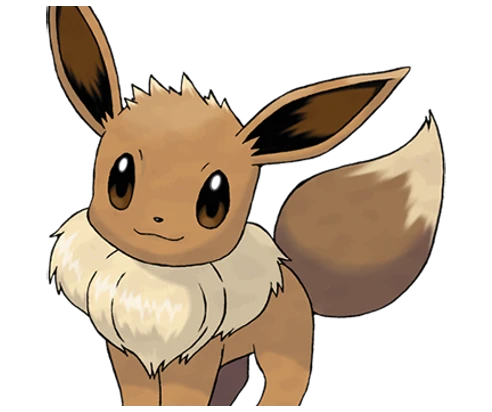
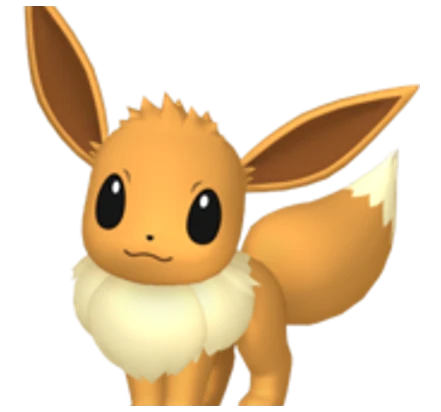
Menú moderno: sin pixel art (botones y paneles redondeados, Nunito y Lilita One, iconos SVG suaves), Normal y Clasificatoria abajo a la derecha con la ficha del entrenador encima, y el Eevee del gacha (render HOME, entero) a ×1,5 abajo a la izquierda; Amigos y su panel redondeados

diff --git a/public/index.html b/public/index.html
@@ -948,22 +948,19 @@ body.fullField .boardInfo span:not(:empty){background:rgba(8,12,28,.6)}
 .candyRow b{color:#9cd3ff;font-size:17px;font-weight:700;text-shadow:1px 1px 0 var(--pxK)}
 .mnRow{grid-template-columns:repeat(5,1fr)}
 .pxb-sq{font-size:13px}
-/* Eevee del gacha (menú): la ilustración oficial de Eevee (PokeAPI, nítida a este tamaño; el sprite de GO solo mide 92 px) dentro de un halo dorado de energía (img/menu/halo-oro*.webp, hechos con halo-oro.js: anillo
-   inclinado con resplandor, vetas, rayos y destellos; la parte baja del anillo va por delante del sprite). Al pasar el ratón su silueta se resalta en dorado y
-   abre el gacha (sustituye al botón «Gacha»). A la izquierda de la pantalla, algo por debajo del centro */
-.mnEevee{position:fixed;left:clamp(8px,calc(50% - 740px),320px);top:58%;transform:translateY(-50%);z-index:16;width:340px;height:400px;overflow:visible;border:0;background:none;padding:0;cursor:pointer;display:block;clip-path:none;box-shadow:none}
+/* Eevee del gacha (menú): la ilustración de Eevee dentro de un halo dorado de energía (img/menu/halo-oro*.webp, hechos con halo-oro.js: anillo
+   inclinado con resplandor, vetas, rayos y destellos; la parte baja del anillo va por delante del sprite). Abajo a la izquierda; al pasar el ratón su
+   silueta se resalta en dorado y abre el gacha (sustituye al botón «Gacha»). Pequeño por defecto; a ×1,5 en escritorio (tema moderno, más abajo) */
+.mnEevee{position:fixed;left:6px;bottom:6px;z-index:16;width:176px;height:200px;overflow:visible;border:0;background:none;padding:0;cursor:pointer;display:block;clip-path:none;box-shadow:none}
 .mnEevee .halo,.mnEevee .haloF,.mnEevee .ev{position:absolute;left:50%;top:50%;transform:translate(-50%,-50%);pointer-events:none;user-select:none}
-.mnEevee .halo,.mnEevee .haloF{width:330px;height:330px;animation:mnHalo 3.6s ease-in-out infinite}
-.mnEevee .haloF{opacity:1}
-.mnEevee .ev{width:230px;height:230px;top:48%;filter:drop-shadow(0 10px 10px rgba(0,0,0,.45));transition:transform .15s,filter .15s}
-.mnEevee span{position:absolute;left:50%;bottom:2px;transform:translateX(-50%);font-family:var(--pxFont);font-size:16px;letter-spacing:.06em;color:#f4d27a;text-shadow:1px 1px 0 var(--pxK),0 0 10px rgba(255,215,94,.55)}
+.mnEevee .halo,.mnEevee .haloF{width:176px;height:176px;animation:mnHalo 3.6s ease-in-out infinite}
+.mnEevee .ev{width:116px;height:116px;top:48%;filter:drop-shadow(0 10px 10px rgba(0,0,0,.45));transition:transform .15s,filter .15s}
+.mnEevee span{position:absolute;left:50%;bottom:2px;transform:translateX(-50%);font-family:var(--display);font-size:14px;letter-spacing:.08em;color:#f4d27a;text-shadow:0 2px 0 rgba(0,0,0,.6),0 0 10px rgba(255,215,94,.55)}
 @keyframes mnHalo{0%,100%{transform:translate(-50%,-50%) scale(1)}50%{transform:translate(-50%,-50%) scale(1.04)}}
 .mnEevee:hover .ev,.mnEevee:focus-visible .ev{transform:translate(-50%,-52%);filter:drop-shadow(2px 0 0 #ffd75e) drop-shadow(-2px 0 0 #ffd75e) drop-shadow(0 2px 0 #ffd75e) drop-shadow(0 -2px 0 #ffd75e) drop-shadow(0 0 12px rgba(255,215,94,.9)) brightness(1.06)}
 .mnEevee:hover .halo,.mnEevee:focus-visible .halo{filter:brightness(1.15) saturate(1.1)}
 .mnEevee:hover span,.mnEevee:focus-visible span{color:#fff2b0}
 .mnEevee:focus-visible{outline:none}
-/* el menú (776 px centrado) deja a la izquierda (50% − 388 px); si no caben los 340 px del Eevee (ancho < 1480) o la pantalla es baja, va pequeño abajo a la izquierda */
-@media (max-width:1479px),(max-height:979px){ .mnEevee{left:6px;top:auto;bottom:6px;transform:none;width:176px;height:200px} .mnEevee .halo,.mnEevee .haloF{width:176px;height:176px} .mnEevee .ev{width:116px;height:116px} .mnEevee span{font-size:13px} }
 @media (prefers-reduced-motion:reduce){ .mnEevee .halo,.mnEevee .haloF{animation:none} }
 /* ---------- cola ---------- */
 #queueBar{position:fixed;left:0;right:0;margin:0 auto;width:fit-content;max-width:calc(100vw - 32px);bottom:18px;z-index:30;display:flex;align-items:center;gap:14px;padding:14px 16px 14px 18px;min-width:min(520px,calc(100vw - 32px));color:var(--pxInk);animation:pxIn .3s steps(4) both}
@@ -1432,6 +1429,56 @@ body.fullField .top{background:none;border-bottom:0;box-shadow:none;backdrop-fil
 .cfgSur small{color:#a9b8c8;font-size:12.5px;max-width:260px}
 @media (max-width:620px){ .cfgRow{grid-template-columns:1fr;gap:6px} .cfgSep{margin-left:-16px;margin-right:-16px} .mbox.cfg{padding:22px 16px 18px} }
 @keyframes cbBan{0%{opacity:0;transform:translate(-50%,-50%) scale(1.25)}12%{opacity:1;transform:translate(-50%,-50%) scale(1)}72%{opacity:1;transform:translate(-50%,-50%) scale(1)}100%{opacity:0;transform:translate(-50%,-50%) scale(.97)}}
+/* ===================== Tema moderno del menú y de las ventanas (sustituye al pixel art) =====================
+   Esquinas redondeadas, Nunito para los textos y Lilita One para los títulos de los botones, sombras suaves y transiciones lisas.
+   Se mantienen la paleta --px* y las clases .pxb/.pxpanel/.btn: estas reglas van después y las redefinen. */
+:root{--pxFont:"Nunito",system-ui,sans-serif}
+.pxb{clip-path:none;border-radius:16px;box-shadow:inset 0 0 0 2px var(--acc),0 8px 18px rgba(0,0,0,.35);text-shadow:none;transition:transform .12s ease,filter .12s ease,box-shadow .12s ease}
+.pxb::before{display:none}
+.pxb b{font-family:var(--display);font-weight:400;letter-spacing:.03em;text-shadow:0 2px 0 rgba(0,0,0,.35)}
+.pxb small{font-weight:700;text-shadow:none}
+.pxb:hover,.pxb:focus-visible{box-shadow:inset 0 0 0 2px var(--pxGold),0 10px 22px rgba(0,0,0,.4),0 0 16px rgba(255,210,63,.25)}
+.pxb:active{transform:translateY(1px)}
+.pxb-main{border-radius:20px;--fill:linear-gradient(180deg,#f0553f,#c93422)}
+.pxb-main:hover,.pxb-main:focus-visible{--fill:linear-gradient(180deg,#ff6a50,#d93b28)}
+.pxb-alt{border-radius:18px;--fill:linear-gradient(180deg,#2b3a6e,#1c2750)}
+.pxb-sq{border-radius:14px;font-weight:800;font-size:14px;text-shadow:none}
+.pxCaret{clip-path:none;width:12px;height:12px;background:none;border-right:3px solid var(--pxGold);border-bottom:3px solid var(--pxGold);border-radius:2px;transform:rotate(-45deg) translate(-3px,-3px)}
+.pxb:hover .pxCaret,.pxb:focus-visible .pxCaret{transform:rotate(-45deg)}
+.pxpanel{clip-path:none;border-radius:18px;box-shadow:inset 0 0 0 2px var(--pxLine),0 16px 40px rgba(0,0,0,.45)}
+.tcard .mnTag{letter-spacing:.18em;font-weight:800;font-size:11px}
+.tcard .mnTag::before,.tcard .mnTag::after{height:1px;background:var(--pxLine)}
+.stand.artStand img{clip-path:none;border-radius:12px;box-shadow:0 0 0 2px var(--pxK),0 0 0 4px var(--pxGold2)}
+.stand.artStand::after{display:none}
+#menu .mnNav>*,#menu #menuWho,#menu .mnLogo{animation-timing-function:ease-out}
+.frBtn{border-radius:999px;padding:9px 16px 9px 12px;font-weight:800}
+.frBtn .frOn{clip-path:none;border-radius:999px;box-shadow:inset 0 0 0 2px #2b7c36}
+.frPanel{border-radius:18px;box-shadow:inset 0 0 0 2px color-mix(in srgb,var(--frAc) 55%,var(--pxLine)),0 16px 40px rgba(0,0,0,.5)}
+.frHead b{text-shadow:none;letter-spacing:.08em;font-weight:900}
+.frRow{border-radius:10px}
+/* Ventanas y botones de partida y acceso, con el mismo lenguaje */
+.btn{clip-path:none;border-radius:12px;font-family:var(--pxFont);font-weight:800;text-shadow:none;box-shadow:inset 0 0 0 2px var(--pxLine),0 4px 10px rgba(0,0,0,.3);transition:transform .1s ease,filter .1s ease,box-shadow .1s ease}
+.btn:hover{box-shadow:inset 0 0 0 2px var(--pxGold),0 6px 14px rgba(0,0,0,.35)}
+.btn:active{transform:translateY(1px);box-shadow:inset 0 0 0 2px var(--pxGold)}
+.btn.primary{background:linear-gradient(180deg,#f0553f,#c93422);box-shadow:inset 0 0 0 2px var(--pxGold2),0 4px 10px rgba(0,0,0,.3)}
+.btn.primary:hover{background:linear-gradient(180deg,#ff6a50,#d93b28);box-shadow:inset 0 0 0 2px var(--pxGold),0 6px 14px rgba(0,0,0,.35)}
+.btn.gold{box-shadow:inset 0 0 0 2px #fff0b0,0 4px 10px rgba(0,0,0,.3)}
+.mbox{clip-path:none;border-radius:18px}
+.mclose{clip-path:none;border-radius:50%;box-shadow:inset 0 0 0 2px var(--pxLine)}
+.mclose:hover{box-shadow:inset 0 0 0 2px var(--pxGold)}
+.field input,.field select,#auth .field input{border-radius:10px;box-shadow:inset 0 0 0 2px var(--pxLine)}
+.field input:focus,.field select:focus,#auth .field input:focus{box-shadow:inset 0 0 0 2px var(--pxGold)}
+.field label,#auth .field label{font-weight:800}
+/* Disposición del menú en escritorio: logo arriba, ficha del entrenador a la derecha, Normal y Clasificatoria (con la fila de botones) abajo a la derecha y el Eevee del gacha abajo a la izquierda */
+@media (min-width:1100px) and (min-height:760px){
+  .mnLayout{grid-template-columns:1fr;grid-template-areas:"logo";max-width:none;margin:1vh auto 0}
+  .mnNav{position:fixed;right:28px;bottom:28px;width:440px;z-index:16} .mnNav .mnRow{order:-1;margin:0 0 2px} /* la fila de botones encima de Normal y Clasificatoria, que quedan abajo del todo */
+  #menuWho{position:fixed;right:28px;top:auto;bottom:296px;width:300px;max-height:calc(100vh - 372px);overflow:auto;z-index:16} /* encima de la columna de botones (250 px + márgenes), nunca encima de ellos; si no cabe, hace scroll */
+  .mnEevee{left:24px;bottom:0;width:510px;height:600px}
+  .mnEevee .halo,.mnEevee .haloF{width:495px;height:495px}
+  .mnEevee .ev{width:345px;height:345px;top:47%}
+  .mnEevee span{font-size:22px;bottom:16px}
+}
 </style>
 </head>
 <body>

diff --git a/public/ui-art.js b/public/ui-art.js
@@ -85,9 +85,35 @@
     for (let y = 0; y < 16; y++) for (let x = 0; x < 16; x++) if (!g[y][x]) for (const [dx, dy] of [[1, 0], [-1, 0], [0, 1], [0, -1]]) { const c = g[y + dy] && g[y + dy][x + dx]; if (c && c !== 'k') { o[y][x] = 'k'; break; } }
     return grids[name] = o;
   }
+  // Iconos modernos (SVG suave de 24×24, sin píxeles): sustituyen a los de la rejilla en todo lo que se ve (menú, ventanas, amigos, perfil).
+  // Los que no están aquí siguen saliendo de la rejilla pixel
+  const MODERN = {
+    ball: '<circle cx="12" cy="12" r="10" fill="#f4f1e8"/><path d="M2 12a10 10 0 0 1 20 0z" fill="#e0412f"/><rect x="2" y="11" width="20" height="2" fill="#0b0d18"/><circle cx="12" cy="12" r="3.4" fill="#f4f1e8" stroke="#0b0d18" stroke-width="2"/><circle cx="12" cy="12" r="10" fill="none" stroke="#0b0d18" stroke-width="1.6"/>',
+    ranked: '<path d="M12 2l8 3v6c0 5-3.5 8.5-8 11-4.5-2.5-8-6-8-11V5z" fill="#7c4dff"/><path d="M12 6.5l1.6 3.3 3.6.5-2.6 2.5.6 3.6L12 14.7l-3.2 1.7.6-3.6-2.6-2.5 3.6-.5z" fill="#fff"/>',
+    hourglass: '<path d="M6 3h12v2l-4.5 7L18 19v2H6v-2l4.5-7L6 5z" fill="#ffd23f"/><path d="M8.5 5h7L12 10.5z" fill="#fff6c8" opacity=".8"/><path d="M12 14l3 4.5H9z" fill="#e0a524"/>',
+    dex: '<rect x="4" y="2.5" width="16" height="19" rx="3" fill="#e0412f"/><circle cx="9" cy="7" r="2.6" fill="#fff"/><circle cx="9" cy="7" r="1.3" fill="#3f7fe0"/><circle cx="14.5" cy="5.5" r="1" fill="#ffd23f"/><circle cx="17" cy="5.5" r="1" fill="#3fbf5a"/><rect x="6" y="13" width="12" height="5" rx="1.5" fill="#7fd9a0"/>',
+    bag: '<path d="M8 8V6a4 4 0 0 1 8 0v2" stroke="#b07a12" stroke-width="2.5" fill="none"/><rect x="4" y="8" width="16" height="13" rx="3" fill="#d79b3a"/><rect x="10" y="12" width="4" height="3" rx="1" fill="#ffd23f"/>',
+    book: '<path d="M3 5c3-1.5 6-1.5 9 0 3-1.5 6-1.5 9 0v14c-3-1.5-6-1.5-9 0-3-1.5-6-1.5-9 0z" fill="#f4f1e8"/><path d="M12 5v14" stroke="#3a4266" stroke-width="1.5"/><path d="M5.5 8.5h4M5.5 11h4M14.5 8.5h4M14.5 11h4" stroke="#b9b4d4" stroke-width="1.2" stroke-linecap="round"/>',
+    gear: '<path fill="#b9b4d4" fill-rule="evenodd" d="M19.92 8.65L22.73 9.6v4.8l-2.81.95.05-.12 1.32 2.66-3.4 3.4-2.66-1.32.12-.05-.95 2.81H9.6l-.95-2.81.12.05-2.66 1.32-3.4-3.4 1.32-2.66.05.12-2.81-.95V9.6l2.81-.95-.05.12-1.32-2.66 3.4-3.4 2.66 1.32-.12.05.95-2.81h4.8l.95 2.81-.12-.05 2.66-1.32 3.4 3.4-1.32 2.66zM15.9 12a3.9 3.9 0 1 0-7.8 0 3.9 3.9 0 1 0 7.8 0z"/>',
+    people: '<circle cx="8.5" cy="7.5" r="3.2" fill="#3f7fe0"/><path d="M2.5 18c0-3.5 2.7-5.5 6-5.5s6 2 6 5.5v1h-12z" fill="#3f7fe0"/><circle cx="16" cy="8.5" r="2.8" fill="#e0412f"/><path d="M13.5 19v-1c0-2 .8-3.6 2.1-4.7 2.7.2 5.9 2 5.9 5.2v.5z" fill="#e0412f"/>',
+    close: '<path d="M6 6l12 12M18 6L6 18" stroke="#fff" stroke-width="2.6" stroke-linecap="round"/>',
+    check: '<path d="M4 12.5l5 5L20 7" stroke="#3fbf5a" stroke-width="3" fill="none" stroke-linecap="round" stroke-linejoin="round"/>',
+    candy: '<ellipse cx="12" cy="12" rx="5.5" ry="4.6" fill="#ff6fa8"/><path d="M6.5 12l-4-3.5v7zM17.5 12l4-3.5v7z" fill="#ff6fa8"/><path d="M9.5 10.5c1.5 1 3.5 1 5 0M9.5 13.5c1.5 1 3.5 1 5 0" stroke="#fff" stroke-width="1.2" fill="none" opacity=".8"/>',
+    swap: '<path d="M4 8h12l-3-3M20 16H8l3 3" stroke="#ffd23f" stroke-width="2.4" fill="none" stroke-linecap="round" stroke-linejoin="round"/>',
+    star: '<path d="M12 2.5l2.9 6 6.6.9-4.8 4.6 1.2 6.5L12 17.4l-5.9 3.1 1.2-6.5L2.5 9.4l6.6-.9z" fill="#ffd23f"/>',
+    crystal: '<path d="M12 2l6 6-6 14-6-14z" fill="#7fb2ff"/><path d="M12 2l6 6H6z" fill="#c8e0ff"/>',
+    addfriend: '<circle cx="9" cy="7.5" r="3.4" fill="#f4f1e8"/><path d="M2.5 19c0-3.8 3-6 6.5-6s6.5 2.2 6.5 6v1h-13z" fill="#f4f1e8"/><path d="M18.5 5v7M15 8.5h7" stroke="#3fbf5a" stroke-width="2.6" stroke-linecap="round"/>',
+    trophy: '<path d="M7 3h10v6a5 5 0 0 1-10 0z" fill="#ffd23f"/><path d="M5 5h2v4a3 3 0 0 1-2-3zM17 5h2a3 3 0 0 1-2 4z" fill="#e0a524"/><rect x="10.5" y="13" width="3" height="4" fill="#e0a524"/><rect x="7" y="17" width="10" height="3.5" rx="1" fill="#b07a12"/>',
+    medal: '<path d="M8 2h3l1 5-3.5 1zM16 2h-3l-1 5 3.5 1z" fill="#e0412f"/><circle cx="12" cy="14" r="6" fill="#ffd23f"/><circle cx="12" cy="14" r="3.2" fill="#fff0b0"/>',
+    sound: '<path d="M3 9h4l5-4v14l-5-4H3z" fill="#f4f1e8"/><path d="M15 9a4 4 0 0 1 0 6M17.5 6.5a7.5 7.5 0 0 1 0 11" stroke="#3f7fe0" stroke-width="2" fill="none" stroke-linecap="round"/>',
+    mute: '<path d="M3 9h4l5-4v14l-5-4H3z" fill="#f4f1e8"/><path d="M15 9l6 6M21 9l-6 6" stroke="#e0412f" stroke-width="2.4" stroke-linecap="round"/>',
+    back: '<path d="M11 5l-7 7 7 7M4 12h16" stroke="#f4f1e8" stroke-width="2.6" fill="none" stroke-linecap="round" stroke-linejoin="round"/>'
+  };
   const svgCache = {};
   function icon(name, size = 32, cls = '') {
-    const k = name + '|' + size + '|' + cls; if (svgCache[k]) return svgCache[k]; const g = grid(name); if (!g) return '';
+    const k = name + '|' + size + '|' + cls; if (svgCache[k]) return svgCache[k];
+    if (MODERN[name]) return svgCache[k] = `<svg class="pxi mi ${cls}" width="${size}" height="${size}" viewBox="0 0 24 24" aria-hidden="true" focusable="false">${MODERN[name]}</svg>`;
+    const g = grid(name); if (!g) return '';
     let r = ''; for (let y = 0; y < 16; y++) { let x = 0; while (x < 16) { const c = g[y][x]; let e = x + 1; while (e < 16 && g[y][e] === c) e++; if (c) r += `<rect x="${x}" y="${y}" width="${e - x}" height="1" fill="${PAL[c]}"/>`; x = e; } }
     return svgCache[k] = `<svg class="pxi ${cls}" width="${size}" height="${size}" viewBox="0 0 16 16" shape-rendering="crispEdges" aria-hidden="true" focusable="false">${r}</svg>`;
   }

diff --git a/CLAUDE.md b/CLAUDE.md
@@ -122,12 +122,12 @@ El detalle, con los nombres de las funciones, está en la skill `autochess-syste
 - **Amigos** (`friends.js`; panel lateral del menú `#frPanel` con el botón `#frBtn`, `renderFriends`/`friendOp` en `game.js`, CSS `.fr*`): grupos Solicitudes, En partida (con la ronda), En línea (menú, cola o sala), Desconectados, Enviadas y Bloqueados. Filas dirigidas en la tabla `friends` (`pending`/`accepted`/`blocked`) y solicitudes «fantasma» en `friend_ghosts` (en el JSON local, `db.friends` y `db.ghosts`): pedir amistad a un nombre sin cuenta, a un rival generado o a quien te bloqueó responde y se ve exactamente igual que a una persona que no contesta; rechazar o bloquear una solicitud la deja pendiente para quien la envió. Todo caduca a los 14 días; máx. 100 amigos, 20 enviadas sin respuesta, 10 solicitudes y 40 acciones por minuto. Estado en directo: `presenceOf` en `server.js` (sala `u:<id>` por usuario; cada 2 s, `PRESENCE_MS`, avisa con `friendUpd` a los amigos conectados) y `friends` pide al navegador recargar la lista. Pruebas en `test/smoke.js` y `tests/e2e/amigos.spec.js` (2 navegadores).
 - **Pantalla de resultados** (`showGameOver`, `renderResultsTable`/`rsRow` en `game.js`; CSS `.rs*`): sale **una sola vez** al terminar tu partida (eliminado o campeón) y «Continuar» lleva al menú (en la práctica, también «Practicar otra vez»). Muestra tu puesto, el cambio de LP y los caramelos, y los 8 jugadores: los vivos arriba como «En juego» y los demás por puesto, con minileyenda (con su evolución y forma), nombre, nivel, equipo con estrellas y objetos, sinergias, aumentos y la ronda en que cayeron. No se guarda en la base: el servidor la arma al apuntar el resultado (`resultBoard` sobre `serverBoards`, con el nombre completo de cuenta de las personas) y la manda en `result.board`; si el navegador no confirma con `resultSeen`, se reenvía al reconectar (`lastResults`, 15 min, `late`). En la práctica se calcula en el navegador (`localBoard`). Nada distingue a un rival generado y **no se abre ningún perfil** desde aquí; sí se puede pedir amistad (a un rival generado le queda pendiente para siempre, hasta caducar). Pruebas en `test/competitivo.js` y `competitivo.spec.js`.
 - **Gacha (fase 1: Eevee mítica)**: `public/cosmetics.js` (compartido, se carga antes que `augments.js`; constantes `COSM`: garantía en la tirada 200, 0,1 %, precio 400 y 10 por 3.600) y la columna JSONB `users.cosm` (`{inv, eq, pity, dust…}`; en el JSON local, `u.cosm`). Eevee (`TACS.eevee.locked`) solo la usa quien tiene `tac:eevee` en el inventario: `/api/me` responde 403 si no, el registro nunca la da, `seatFor` la cambia por la de por defecto y los selectores la muestran bloqueada con «Gacha» y «Eevee garantizado en N tiradas» (`tacOwned`). `db.init()` pasa a Charmander (`COSM.DEFAULT_TAC`) a quien la llevaba sin tenerla (repetible). Los rivales generados solo usan minileyendas gratuitas (`FREE_TACS`). `db.addInv` añade una clave al inventario.
-- **Gacha (fase 2: tiradas)**: catálogo en `COSM.LIST` (120 claves cortas: colores de nombre, títulos, iconos PX, marcos, rastros, saludos, temas, acentos, bola de fuego, casillas, cristales, barrera, fanfarrias, variocolor de las 7 minileyendas gratuitas, Eevee y 5 títulos de colección; sin imágenes nuevas) y rarezas en `COSM.TIERS` (60/30/8,2/1,7/0,1 %; 1 de cada 4 comunes son 75 caramelos de vuelta). La lógica es `gacha.js` (pura, con `crypto.randomInt` y un azar sustituible en las pruebas): Eevee al 0,1 % en un solo sorteo y garantizada en la tirada 200 (también la diaria cuenta; con Eevee ya conseguida la mítica da 1.500 de Polvo Estelar), repetidos → polvo (5/20/80/300), colecciones completas → título, tienda de polvo (30/120/450/1.800; Eevee y los títulos de colección no se venden), historial de 20 y `nonce` por petición (repetida = mismo resultado sin cobrar). `db.gachaTx` la ejecuta en una transacción (`FOR UPDATE` en PostgreSQL; en el JSON local, sin esperas entre leer y escribir). Rutas `GET /api/gacha` y `POST /api/gacha/roll|daily|buy` en `auth.js` (20 por minuto). La diaria se desbloquea al terminar la primera partida del día (`DAY_TZ`, por defecto la hora de México). Si sale Eevee, `ann` avisa a quien está en el menú (`onEevee` en `server.js`). Interfaz: el **Eevee con halo dorado** del menú (`#eeveeGacha`, a la izquierda y algo por debajo del centro: la ilustración oficial de Eevee (PokeAPI official-artwork, recortada a 400 px) `public/img/menu/eevee.webp` dentro de un halo de energía dorado, `halo-oro.webp` detrás y `halo-oro-frente.webp` por delante de las patas, hechos con `halo-oro.js` de la skill de recursos; al pasar el ratón su silueta se resalta en dorado; sustituye al botón «Gacha». Va fijo a la izquierda del menú centrado de 776 px, `left: 50% − 740px`; si no caben sus 340 px —ancho < 1480 o alto < 980— pasa a 176 px abajo a la izquierda para no tapar los botones), `showGacha` (Poké Ball en CSS que tiembla y se tiñe de la mejor rareza), cartas con miniatura CSS de cada premio (`cosChip`), probabilidades, historial y tienda. Medido: 0,03 ms de CPU por tirada de 10 y ≤ 2,7 KB por cuenta con todo el catálogo.
+- **Gacha (fase 2: tiradas)**: catálogo en `COSM.LIST` (120 claves cortas: colores de nombre, títulos, iconos PX, marcos, rastros, saludos, temas, acentos, bola de fuego, casillas, cristales, barrera, fanfarrias, variocolor de las 7 minileyendas gratuitas, Eevee y 5 títulos de colección; sin imágenes nuevas) y rarezas en `COSM.TIERS` (60/30/8,2/1,7/0,1 %; 1 de cada 4 comunes son 75 caramelos de vuelta). La lógica es `gacha.js` (pura, con `crypto.randomInt` y un azar sustituible en las pruebas): Eevee al 0,1 % en un solo sorteo y garantizada en la tirada 200 (también la diaria cuenta; con Eevee ya conseguida la mítica da 1.500 de Polvo Estelar), repetidos → polvo (5/20/80/300), colecciones completas → título, tienda de polvo (30/120/450/1.800; Eevee y los títulos de colección no se venden), historial de 20 y `nonce` por petición (repetida = mismo resultado sin cobrar). `db.gachaTx` la ejecuta en una transacción (`FOR UPDATE` en PostgreSQL; en el JSON local, sin esperas entre leer y escribir). Rutas `GET /api/gacha` y `POST /api/gacha/roll|daily|buy` en `auth.js` (20 por minuto). La diaria se desbloquea al terminar la primera partida del día (`DAY_TZ`, por defecto la hora de México). Si sale Eevee, `ann` avisa a quien está en el menú (`onEevee` en `server.js`). Interfaz: el **Eevee con halo dorado** del menú (`#eeveeGacha`, abajo a la izquierda: el render de Pokémon HOME de Eevee de pokemondb (el mismo estilo que los retratos de la Pokédex; la ilustración oficial de PokeAPI trae la oreja izquierda recortada), recortado a sus bordes y guardado en `public/img/menu/eevee.webp` (400 px), dentro de un halo de energía dorado, `halo-oro.webp` detrás y `halo-oro-frente.webp` por delante de las patas, hechos con `halo-oro.js` de la skill de recursos; al pasar el ratón su silueta se resalta en dorado; sustituye al botón «Gacha». En escritorio (≥ 1100×760) va a ×1,5 (halo de 495 px, Eevee de 345 px) pegado a la esquina inferior izquierda; si no, a 176 px en la misma esquina), `showGacha` (Poké Ball en CSS que tiembla y se tiñe de la mejor rareza), cartas con miniatura CSS de cada premio (`cosChip`), probabilidades, historial y tienda. Medido: 0,03 ms de CPU por tirada de 10 y ≤ 2,7 KB por cuenta con todo el catálogo.
 - **Gacha (fase 3: perfil y nombre)**: se equipa con `POST /api/cosm/equip {slot, key}` (`GACHA.equip`, en `db.gachaTx`; solo lo que tienes y en su hueco, `COSM.SLOTS`; 60 por minuto). Lo que ven los demás va en una cadena corta (`COSM.eqString`/`parseCs`, huecos `PUB_SLOTS`; el tema `th` y el acento `ac` no viajan a la partida): `seatFor` la lee de la cuenta (`seat.cs`, también en `publicSeats` para la sala), los rivales generados reciben la suya con `COSM.botEquip` (misma probabilidad por hueco y peso por rareza que una persona, para no delatarse) y el servidor emite **`cos` una sola vez por partida** (y al volver con `rejoin`) con los 8 (`serverCosmetics`): `pub` no crece. También llega a los amigos (`FR.view`, solo amigos y solicitudes recibidas; las enviadas nunca), a la pantalla de resultados (`result.board[i].cs`) y al perfil (`profileView`: `cs` con nombre, título, icono, marco y tema, y `eevee` para la insignia «Mítica»). Interfaz: `nameHTML` (color liso, degradado o animado), `frameVars` (marco del círculo en la lista de jugadores, amigos, resultados y perfil), `titleOf`, `iconOf`, tema del estandarte (`.pfBanner.themed`) y acento de tu panel de amigos (`--frAc`). Pantallas «Personalizar» (`gaPz`, con vista previa) y «Colección» (`gaColl`, con el progreso de cada colección), desde el gacha y desde tu perfil.
 - **Gacha (fase 4: dentro de la partida, solo visual)**: los datos salen de `cosD(p, hueco)` (cadena `cs` de cada jugador, de `cos`). **Variocolor**: `tacDexC` pide a `board3d.js` el dex `hue:<de>,<a>:<n.º>` y `hueMat` (el `shinyMat` generalizado) gira en el shader los tonos cercanos a `de` hasta `a` (un programa por pareja; solo para su minileyenda gratuita). **Rastro**: `spec.trail` en el actor de la minileyenda emite chispas de sus dos colores al caminar (`update`). **Bola de fuego** de Charmander (H): `B3.fireball(…, color)`. **Saludos** (T): `greet` muestra por turnos las 3 frases del juego equipado (sin él, 👍) y `act {t:'greet'}` (una cada 1,4 s) sube el contador `p.gn`, que viaja en `pub.pl[i][18]`: cada navegador pone la frase con los cosméticos de ese jugador (`otherGreet`), nunca texto libre. **Casillas**: `F.tiles` tiñe tu lado del tablero que miras con una malla aparte de 28 casillas (`stepTiles`, opacidad 0,2, oculta al arrastrar y en el carrusel). **Cristales de intereses**: `F.interest.col`. **Barrera del carrusel**: `col` de cada burbuja. **Fanfarria**: `Music.fanfare(notas)` (WebAudio) al ganar un combate PvP y al ganar la partida, solo en tu navegador. Una prueba de navegador recorre las 120 claves del catálogo y comprueba que cada una tiene miniatura y su efecto real; medido: mismos FPS con y sin cosméticos de partida y una llamada de dibujo más (las casillas).
 - **Nombres de los rivales**: nunca coinciden con una cuenta real (`db.nameTaken`, que `server.js` pasa como `taken` a `serverCreate`). `serverBoards()` da los 8 jugadores (equipo final de los eliminados, actual de los vivos) con la misma forma para todos, para la pantalla de resultados.
 - **Práctica sin conexión**: la partida local contra bots de antes (sin recompensas ni historial). La usan las pruebas de navegador (`startSolo`).
-- **Menú y acceso (pixel art)**: botones `.pxb` (marco de dos anillos con esquinas escalonadas, `.pxb-main` rojo Poké Ball, `.pxb-alt` azul, `.pxb-sq` cuadrados), panel `.pxpanel`, fuente Pixelify Sans y colores en las variables `--px*` de `index.html`. Sin emojis: los iconos salen de `PX` (para añadir uno, una función más en `ICONS`). El escenario corre a 15 fps y se para solo al salir del menú.
+- **Menú y acceso (tema moderno)**: ya no hay pixel art. Las clases siguen siendo `.pxb` (`.pxb-main` rojo Poké Ball, `.pxb-alt` azul, `.pxb-sq` cuadrados), `.pxpanel` y `.btn`, con la paleta `--px*`, pero el bloque «Tema moderno» al final de `index.html` las redefine: esquinas redondeadas (sin `clip-path`), Nunito para los textos (`--pxFont`) y Lilita One (`--display`) para los títulos de los botones, sombras suaves y transiciones lisas; lo mismo para las ventanas (`.mbox`, `.mclose`, campos), el botón y el panel de Amigos. **Iconos**: `PX.icon` devuelve primero los del mapa `MODERN` de `ui-art.js` (SVG suaves de 24×24: ball, ranked, hourglass, dex, bag, book, gear, people, close, check, candy, swap, star, crystal, addfriend, trophy, medal, sound, mute, back) y solo cae a la rejilla pixel si el nombre no está ahí; para añadir un icono, una entrada más en `MODERN`. **Disposición en escritorio** (≥ 1100×760): logo arriba en el centro, ficha del entrenador fija arriba a la derecha, la fila de botones y debajo Normal y Clasificatoria fijos abajo a la derecha (`.mnNav`), y el Eevee del gacha abajo a la izquierda; en pantallas menores, la rejilla centrada de antes con el Eevee pequeño abajo a la izquierda.
 - **Presentación del combate (solo visual, nunca toca la simulación)**:
   - Los efectos (`cb.fx`) envejecen en cada fotograma (`ageFx` en `frame()`) y la posición de las unidades se interpola con el tiempo real desde el último tick (`drawSub`): todo se mueve a la frecuencia de la pantalla, no a 30 Hz.
   - `cb.visDelay` retrasa los textos y la reacción de impacto hasta que llega el proyectil (un efecto con `t` negativo aún no ha empezado). El daño se sigue aplicando en el mismo tick.
